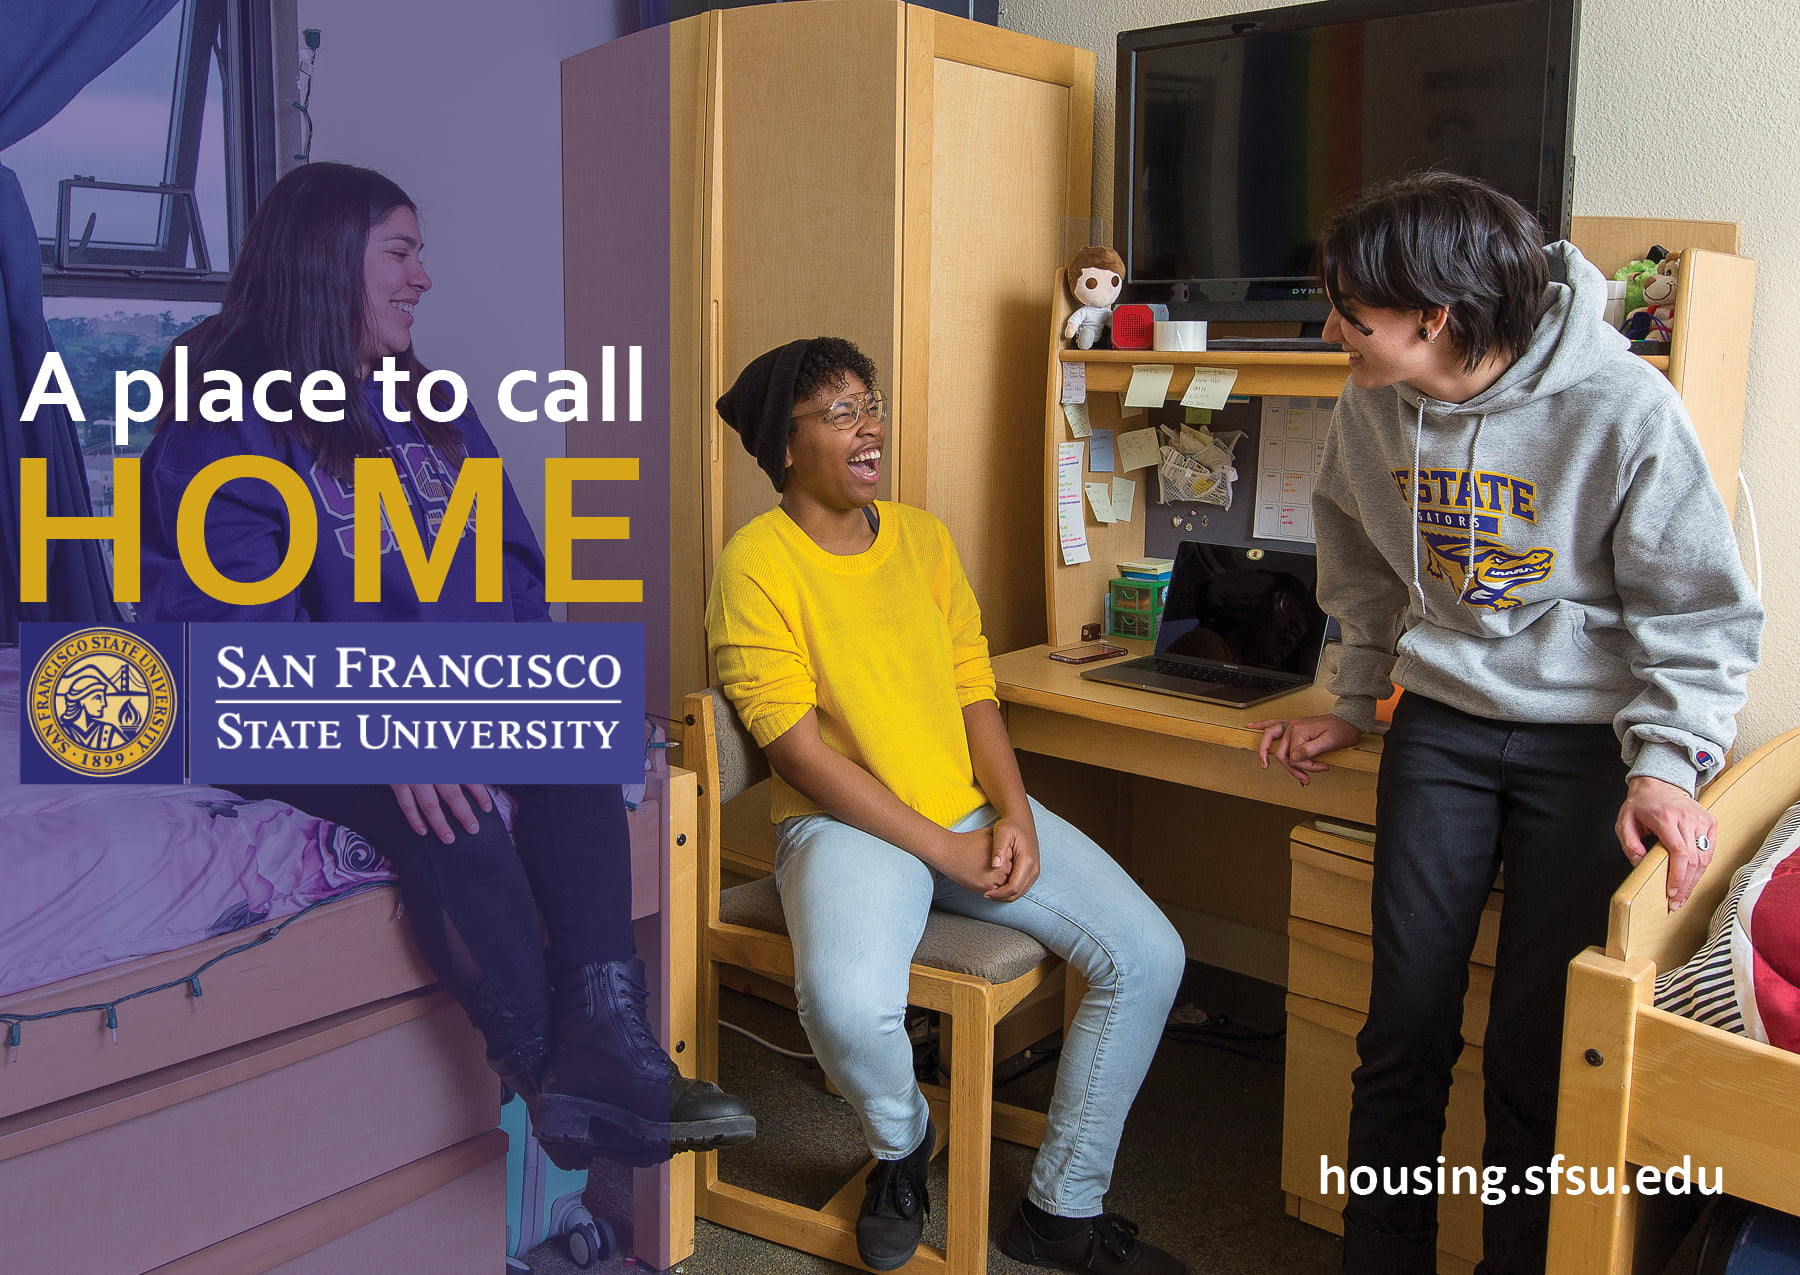
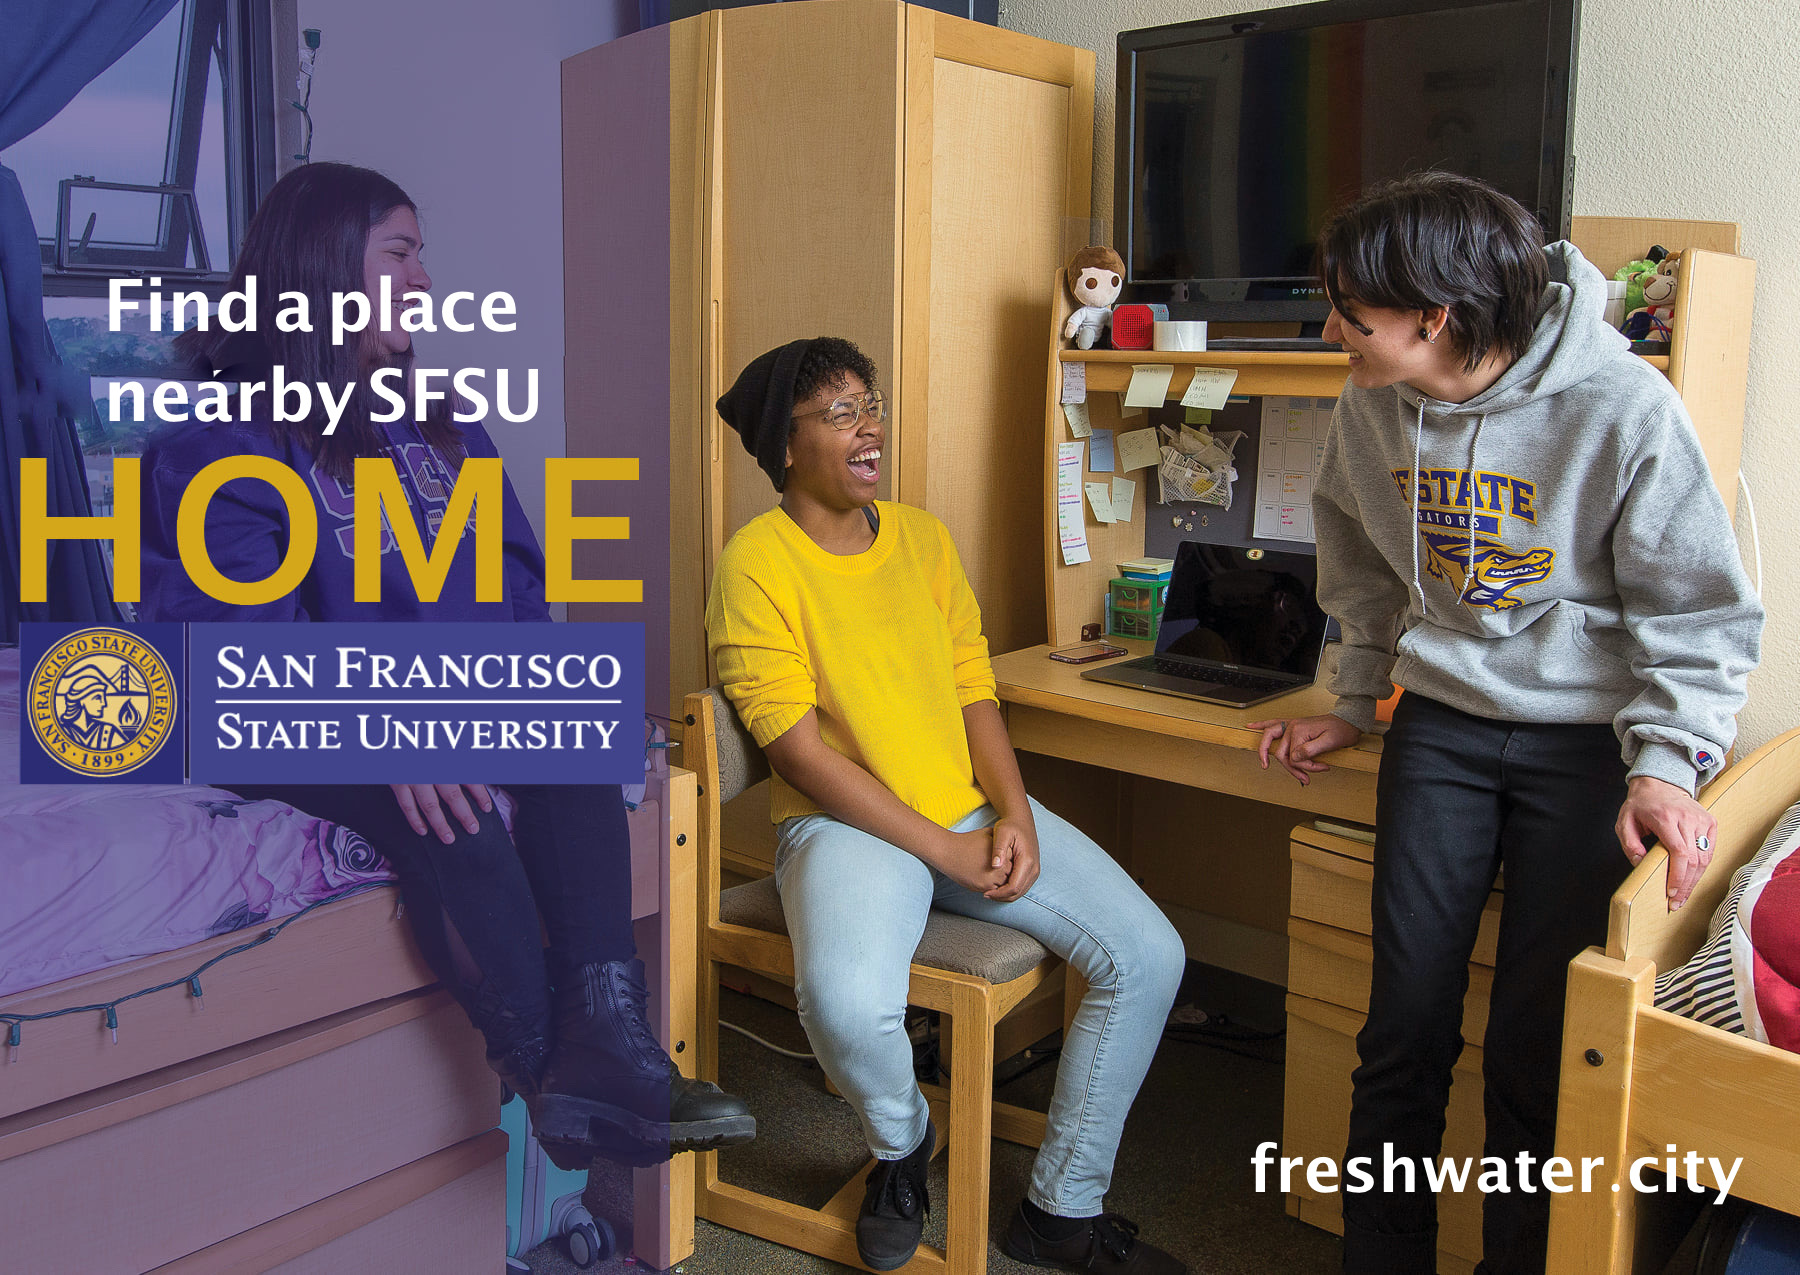
added portfolio-housing

Changed region(s): [[0.0, 0.2141, 0.3733, 0.3671], [0.6844, 0.8871, 0.9644, 0.9482]]

diff --git a/portfolio-web1-house.html b/portfolio-web1-house.html
@@ -1,0 +1,102 @@
+<!DOCTYPE html>
+<html lang="en">
+
+<head>
+  <meta charset="utf-8">
+  <meta content="width=device-width, initial-scale=1.0" name="viewport">
+
+  <title>Portfolio Details - Personal Bootstrap Template</title>
+  <meta content="" name="descriptison">
+  <meta content="" name="keywords">
+
+  <!-- Favicons -->
+  <link href="assets/img/favicon.png" rel="icon">
+  <link href="assets/img/apple-touch-icon.png" rel="apple-touch-icon">
+
+  <!-- Google Fonts -->
+  <link href="https://fonts.googleapis.com/css?family=Open+Sans:300,300i,400,400i,600,600i,700,700i|Raleway:300,300i,400,400i,500,500i,600,600i,700,700i|Poppins:300,300i,400,400i,500,500i,600,600i,700,700i" rel="stylesheet">
+
+  <!-- Vendor CSS Files -->
+  <link href="assets/vendor/bootstrap/css/bootstrap.min.css" rel="stylesheet">
+  <link href="assets/vendor/icofont/icofont.min.css" rel="stylesheet">
+  <link href="assets/vendor/boxicons/css/boxicons.min.css" rel="stylesheet">
+  <link href="assets/vendor/venobox/venobox.css" rel="stylesheet">
+  <link href="assets/vendor/owl.carousel/assets/owl.carousel.min.css" rel="stylesheet">
+  <link href="assets/vendor/aos/aos.css" rel="stylesheet">
+
+  <!-- Template Main CSS File -->
+  <link href="assets/css/style.css" rel="stylesheet">
+
+  <!-- =======================================================
+  * Template Name: MyResume - v2.1.0
+  * Template URL: https://bootstrapmade.com/free-html-bootstrap-template-my-resume/
+  * Author: BootstrapMade.com
+  * License: https://bootstrapmade.com/license/
+  ======================================================== -->
+</head>
+
+<body>
+
+  <main id="main">
+
+    <!-- ======= Portfolio Details ======= -->
+    <section id="portfolio-details" class="portfolio-details">
+      <div class="container" data-aos="fade-up">
+
+        <div class="row">
+
+          <div class="col-lg-8">
+            <!-- <h2 class="portfolio-title">This is an example of portfolio detail</h2> -->
+            <div class="owl-carousel portfolio-details-carousel">
+              <img src="assets/img/portfolio/portfolio-1.jpg" class="img-fluid" alt="">
+              <!-- <img src="assets/img/portfolio/portfolio-1-2.png" class="img-fluid" alt="">
+              <img src="assets/img/portfolio/portfolio-details-3.jpg" class="img-fluid" alt=""> -->
+            </div>
+          </div>
+
+          <div class="col-lg-4 portfolio-info">
+            <!-- <h3>Project information</h3> -->
+            <ul>
+              
+              <li><strong>Category</strong>: Web development</li>
+              <li><strong>Client</strong>: SFSU students and Faculties</li>
+              <li><strong>Project date</strong>:2020/06/01 - 2020/08/07</li>
+              <!-- <li><strong>Project URL</strong>: <a href="http://freshwater.city" target="_blank">freshwater.city</a></li> -->
+              <li><strong>Introduction</strong>: This is a student-facing website for rent/buy/view household close to SFSU campus.
+              <!-- <li><a class="btn btn-primary" href="http://freshwater.city" target="_blank" role="button">See projcet</a></li> -->
+            </ul>
+
+            <p> 
+              <a class="btn btn-primary d-flex justify-content-around" href="http://freshwater.city" target="_blank" role="button">See projcet</a>
+            </p>
+          </div>
+
+        </div>
+
+      </div>
+    </section><!-- End Portfolio Details -->
+
+  </main><!-- End #main -->
+
+  <a href="#" class="back-to-top"><i class="bx bx-up-arrow-alt"></i></a>
+  <div id="preloader"></div>
+
+  <!-- Vendor JS Files -->
+  <script src="assets/vendor/jquery/jquery.min.js"></script>
+  <script src="assets/vendor/bootstrap/js/bootstrap.bundle.min.js"></script>
+  <script src="assets/vendor/jquery.easing/jquery.easing.min.js"></script>
+  <script src="assets/vendor/php-email-form/validate.js"></script>
+  <script src="assets/vendor/waypoints/jquery.waypoints.min.js"></script>
+  <script src="assets/vendor/counterup/counterup.min.js"></script>
+  <script src="assets/vendor/isotope-layout/isotope.pkgd.min.js"></script>
+  <script src="assets/vendor/venobox/venobox.min.js"></script>
+  <script src="assets/vendor/owl.carousel/owl.carousel.min.js"></script>
+  <script src="assets/vendor/typed.js/typed.min.js"></script>
+  <script src="assets/vendor/aos/aos.js"></script>
+
+  <!-- Template Main JS File -->
+  <script src="assets/js/main.js"></script>
+
+</body>
+
+</html>

diff --git a/index.html b/index.html
@@ -346,7 +346,7 @@
           <div class="col-lg-12 d-flex justify-content-center" data-aos="fade-up" data-aos-delay="100">
             <ul id="portfolio-flters">
               <li data-filter="*" class="filter-active">All</li>
-              <li data-filter=".filter-web">Website</li>
+              <li data-filter=".filter-web">Website</lwi>
               <li data-filter=".filter-pub">Publication</li>
               <li data-filter=".filter-pat">Patents</li>
             </ul>
@@ -359,11 +359,11 @@
             <div class="portfolio-wrap">
               <img src="assets/img/portfolio/portfolio-1.jpg" class="img-fluid" alt="">
               <div class="portfolio-info">
-                <h4>App 1</h4>
-                <p>App</p>
+                <h4>Web 1</h4>
+                <p>Fresh water</p>
                 <div class="portfolio-links">
-                  <a href="assets/img/portfolio/portfolio-1.jpg" data-gall="portfolioGallery" class="venobox" title="App 1"><i class="bx bx-plus"></i></a>
-                  <a href="portfolio-details.html" data-gall="portfolioDetailsGallery" data-vbtype="iframe" class="venobox" title="Portfolio Details"><i class="bx bx-link"></i></a>
+                  <!-- <a href="assets/img/portfolio/portfolio-1.jpg" data-gall="portfolioGallery" class="venobox" title="App 1"><i class="bx bx-plus"></i></a> -->
+                  <a href="portfolio-web1-house.html" data-gall="portfolioDetailsGallery" data-vbtype="iframe" class="venobox" title="Portfolio Details"><i class="bx bx-link"></i></a>
                 </div>
               </div>
             </div>
